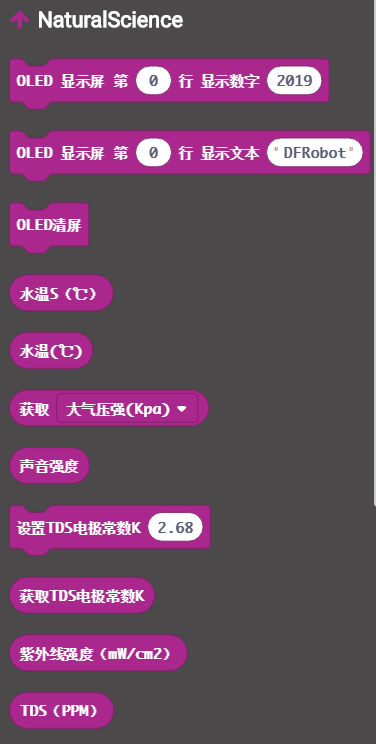
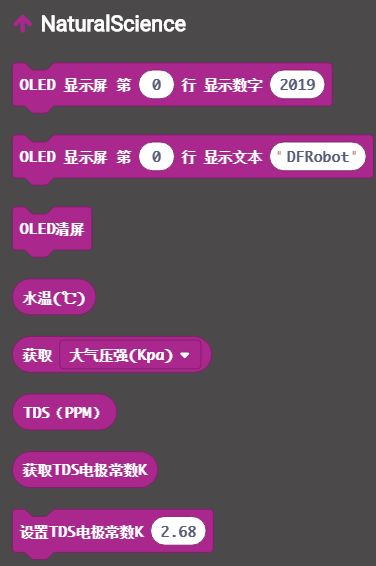
j

diff --git a/NaturalScience.ts b/NaturalScience.ts
@@ -156,7 +156,7 @@ namespace NaturalScience {
      * Obtain the UV intensity of the UV sensor (mW/cm2)
      */
     //% block="get UV"
-    //% weight=70
+    //% weight=69
     export function getUV(): number {
         let ret1 = readReg(STM32_ADDRESS, REG_STM32_UV_H);
         let ret2 = readReg(STM32_ADDRESS, REG_SEM32_UV_L);
@@ -481,4 +481,3 @@ namespace NaturalScience {
     }
 
 }
-
